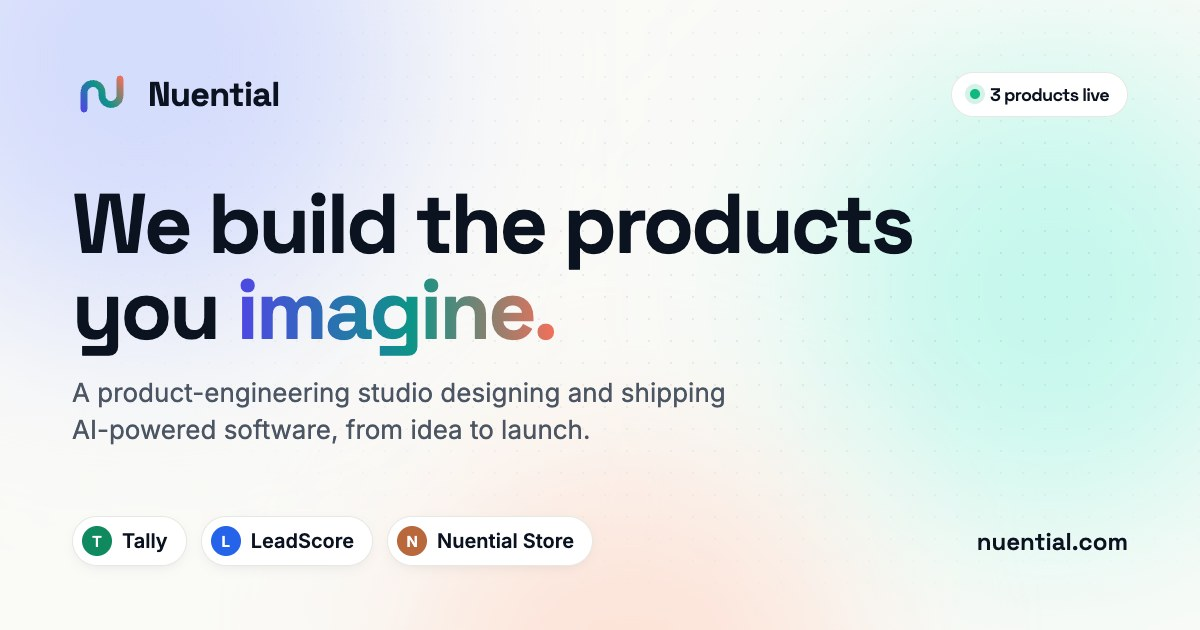
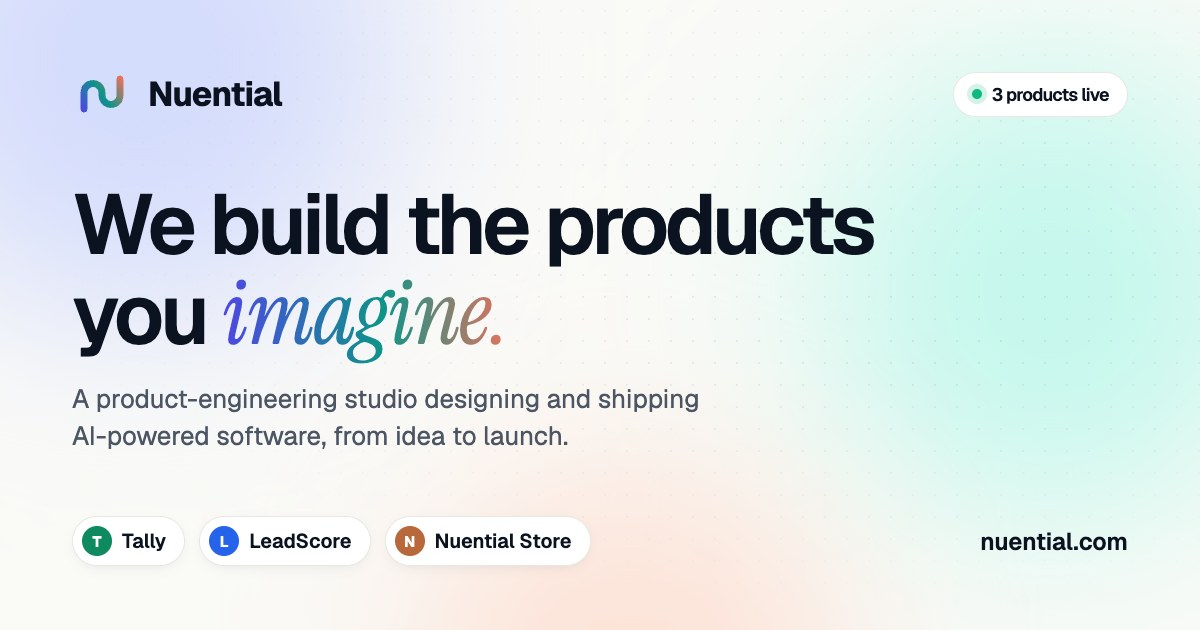
Switch to Geist with Instrument Serif italic accents

diff --git a/src/data/content.ts b/src/data/content.ts
@@ -120,7 +120,7 @@ export const PROJECTS: ProjectItem[] = [
     kind: 'tally',
     name: 'Tally',
     category: 'Personal finance · India',
-    headline: 'The UPI/SMS ledger that doesn’t lie.',
+    headline: 'The UPI/SMS ledger that *doesn’t lie.*',
     description:
       'Your phone already gets “Rs 500 spent…” alerts. Tally forwards those bank SMS to a private link, parses every rupee, and turns them into a Dashboard, Spending and Transactions view — no bank password, ever.',
     features: [
@@ -142,7 +142,7 @@ export const PROJECTS: ProjectItem[] = [
     kind: 'leadscore',
     name: 'LeadScore',
     category: 'Sales AI · Indian SMBs',
-    headline: 'Stop guessing who to call first.',
+    headline: 'Stop guessing who to *call first.*',
     description:
       'Not another CRM. Upload the Google Sheet or CSV you already keep and get a daily call & WhatsApp list, ranked by what actually converted for your business before.',
     features: [
@@ -164,7 +164,7 @@ export const PROJECTS: ProjectItem[] = [
     kind: 'store',
     name: 'Nuential Store',
     category: 'D2C e-commerce · Home decor',
-    headline: 'A room you want to stay in.',
+    headline: 'A room you *want to stay in.*',
     description:
       'An editorial home-decor storefront for Indian rooms — curated wall art, lighting and decor priced in INR, with pan-India delivery and a Shopify admin simple enough for a solo founder.',
     features: [
@@ -260,7 +260,7 @@ export const COUNTERS: CounterItem[] = [
 ];
 
 export const WHY_SECTION = {
-  heading: 'Why Nuential',
+  heading: 'Why *Nuential*',
   subheading: 'We earn your trust through work, not promises.',
 };
 
@@ -309,18 +309,18 @@ export const FOOTER = {
 export const SECTIONS = {
   services: {
     badge: 'What we do',
-    heading: 'Services built for product-minded teams',
+    heading: 'Services built for *product-minded* teams',
     subheading: 'Everything you need to go from a blank page to a launched product.',
   },
   work: {
     badge: 'Our Work',
-    heading: 'Real products. Real users. Live today.',
+    heading: 'Real products. Real users. *Live today.*',
     subheading:
       'We don’t just build for clients — we design, engineer and run our own products. Here’s what’s in production right now.',
   },
   process: {
     badge: 'How we work',
-    heading: 'A process you can follow',
+    heading: 'A process you *can follow*',
     subheading: 'Four phases, each with clear deliverables and visible progress.',
   },
 } as const;

diff --git a/src/components/sections/Work.tsx b/src/components/sections/Work.tsx
@@ -2,6 +2,7 @@ import { motion } from 'framer-motion';
 import { ArrowUpRight, Check } from 'lucide-react';
 import { PROJECTS, SECTIONS, type ProjectItem } from '@/data/content';
 import { SectionHeading } from '@/components/ui/SectionHeading';
+import { AccentText } from '@/components/ui/AccentText';
 import { ProjectMockup } from '@/components/ui/ProjectMockup';
 import { PRODUCT_THEME } from '@/components/ui/productTheme';
 
@@ -57,8 +58,8 @@ function ProjectCard({ project, index }: { project: ProjectItem; index: number }
             </span>
           </div>
 
-          <h3 className="mt-5 text-[1.75rem] font-bold leading-tight tracking-tight text-text-heading sm:mt-6 sm:text-3xl lg:text-4xl">
-            {project.headline}
+          <h3 className="mt-5 text-[1.75rem] font-semibold leading-tight tracking-[-0.035em] text-text-heading text-balance sm:mt-6 sm:text-3xl lg:text-4xl">
+            <AccentText text={project.headline} accentClassName={theme.text} />
           </h3>
           <p className="mt-3 text-[15px] leading-relaxed text-text-body sm:mt-4 sm:text-base lg:text-lg">
             {project.description}

diff --git a/index.html b/index.html
@@ -10,7 +10,7 @@
     <meta name="theme-color" content="#FAFAF7" />
     <link rel="preconnect" href="https://fonts.googleapis.com" />
     <link rel="preconnect" href="https://fonts.gstatic.com" crossorigin />
-    <link rel="stylesheet" href="https://fonts.googleapis.com/css2?family=Inter:wght@400;500;600&family=Space+Grotesk:wght@400;500;600;700&display=swap" />
+    <link rel="stylesheet" href="https://fonts.googleapis.com/css2?family=Geist:wght@400;500;600;700&family=Instrument+Serif:ital@0;1&display=swap" />
     <link rel="preload" as="image" href="/work/store/tripod-lamp.webp" type="image/webp" />
     <title>Nuential — We Build the Products You Imagine</title>
     <meta name="description" content="Nuential is a product-engineering studio. We partner with startups and businesses to design and build custom software products — SaaS, AI-powered tools, web and mobile apps — from idea to launch." />

diff --git a/tailwind.config.js b/tailwind.config.js
@@ -32,12 +32,13 @@ export default {
         },
       },
       fontFamily: {
-        display: ['"Space Grotesk"', '"Sora"', 'system-ui', 'sans-serif'],
-        body: ['"Inter"', 'system-ui', 'sans-serif'],
+        display: ['Geist', 'system-ui', 'sans-serif'],
+        body: ['Geist', 'system-ui', 'sans-serif'],
+        serif: ['"Instrument Serif"', 'Georgia', 'serif'],
       },
       fontSize: {
-        hero: ['clamp(2.75rem, 6.2vw, 5.25rem)', { lineHeight: '1.02', letterSpacing: '-0.035em' }],
-        '2xl-display': ['clamp(2rem, 4vw, 3.25rem)', { lineHeight: '1.08', letterSpacing: '-0.03em' }],
+        hero: ['clamp(2.75rem, 6.2vw, 5.25rem)', { lineHeight: '1.02', letterSpacing: '-0.045em' }],
+        '2xl-display': ['clamp(2rem, 4vw, 3.25rem)', { lineHeight: '1.08', letterSpacing: '-0.04em' }],
       },
       borderRadius: {
         '2xl': '1rem',

diff --git a/src/components/sections/Hero.tsx b/src/components/sections/Hero.tsx
@@ -96,13 +96,13 @@ export function Hero() {
             variants={container}
             initial="hidden"
             animate="visible"
-            className="mt-7 text-hero font-bold text-text-heading"
+            className="mt-7 text-hero font-semibold text-text-heading"
           >
             {HERO.headline.map((line, lineIdx) => (
-              <span key={lineIdx} className="block overflow-hidden pb-1">
+              <span key={lineIdx} className="block overflow-hidden pb-2 pr-2">
                 <motion.span variants={word} className="inline-block">
                   {lineIdx === HERO.headline.length - 1 ? (
-                    <span className="gradient-text">{line}</span>
+                    <span className="accent-serif gradient-text">{line}</span>
                   ) : (
                     line
                   )}

diff --git a/src/index.css b/src/index.css
@@ -17,12 +17,12 @@
     -webkit-tap-highlight-color: transparent;
     background-color: #FAFAF7;
     color: #4B5563;
-    font-family: 'Inter', system-ui, sans-serif;
+    font-family: 'Geist', system-ui, sans-serif;
     overflow-x: hidden;
   }
 
   h1, h2, h3, h4, h5, h6 {
-    font-family: 'Space Grotesk', 'Sora', system-ui, sans-serif;
+    font-family: 'Geist', system-ui, sans-serif;
     color: #0B1220;
   }
 
@@ -51,6 +51,16 @@
     backdrop-filter: blur(18px);
     -webkit-backdrop-filter: blur(18px);
     border: 1px solid rgba(11, 18, 32, 0.08);
+  }
+
+  .accent-serif {
+    font-family: 'Instrument Serif', Georgia, serif;
+    font-style: italic;
+    font-weight: 400;
+    letter-spacing: -0.01em;
+    font-size: 1.06em;
+    padding-right: 0.06em;
+    white-space: nowrap;
   }
 
   .gradient-text {

diff --git a/src/components/ui/SectionHeading.tsx b/src/components/ui/SectionHeading.tsx
@@ -1,4 +1,5 @@
 import { motion } from 'framer-motion';
+import { AccentText } from '@/components/ui/AccentText';
 
 const EASE = [0.22, 1, 0.36, 1] as const;
 
@@ -34,9 +35,9 @@ export function SectionHeading({
         whileInView={{ opacity: 1, y: 0 }}
         viewport={{ once: true }}
         transition={{ duration: 0.7, ease: EASE, delay: 0.1 }}
-        className="mt-5 text-2xl-display font-bold text-text-heading text-balance"
+        className="mt-5 text-2xl-display font-semibold text-text-heading text-balance"
       >
-        {heading}
+        <AccentText text={heading} accentClassName="gradient-text" />
       </motion.h2>
       {subheading && (
         <motion.p

diff --git a/src/components/sections/FinalCTA.tsx b/src/components/sections/FinalCTA.tsx
@@ -79,9 +79,9 @@ export function FinalCTA() {
           transition={{ duration: 0.7, ease: EASE }}
           className="px-1 sm:px-0 lg:sticky lg:top-32"
         >
-          <h2 className="text-2xl-display font-bold text-text-heading text-balance">
+          <h2 className="text-2xl-display font-semibold text-text-heading text-balance">
             {CONTACT.heading}{' '}
-            <span className="gradient-text">{CONTACT.subheading}</span>
+            <span className="accent-serif gradient-text">{CONTACT.subheading}</span>
           </h2>
           <p className="mt-4 text-lg text-text-body text-balance">
             {CONTACT.description}

diff --git a/src/components/ui/AccentText.tsx b/src/components/ui/AccentText.tsx
@@ -1,0 +1,21 @@
+interface AccentTextProps {
+  /** Wrap the phrase to accent in asterisks, e.g. "Real users. *Live today.*" */
+  text: string;
+  accentClassName?: string;
+}
+
+export function AccentText({ text, accentClassName = '' }: AccentTextProps) {
+  return (
+    <>
+      {text.split('*').map((part, i) =>
+        i % 2 === 1 ? (
+          <span key={i} className={`accent-serif ${accentClassName}`}>
+            {part}
+          </span>
+        ) : (
+          part
+        ),
+      )}
+    </>
+  );
+}
